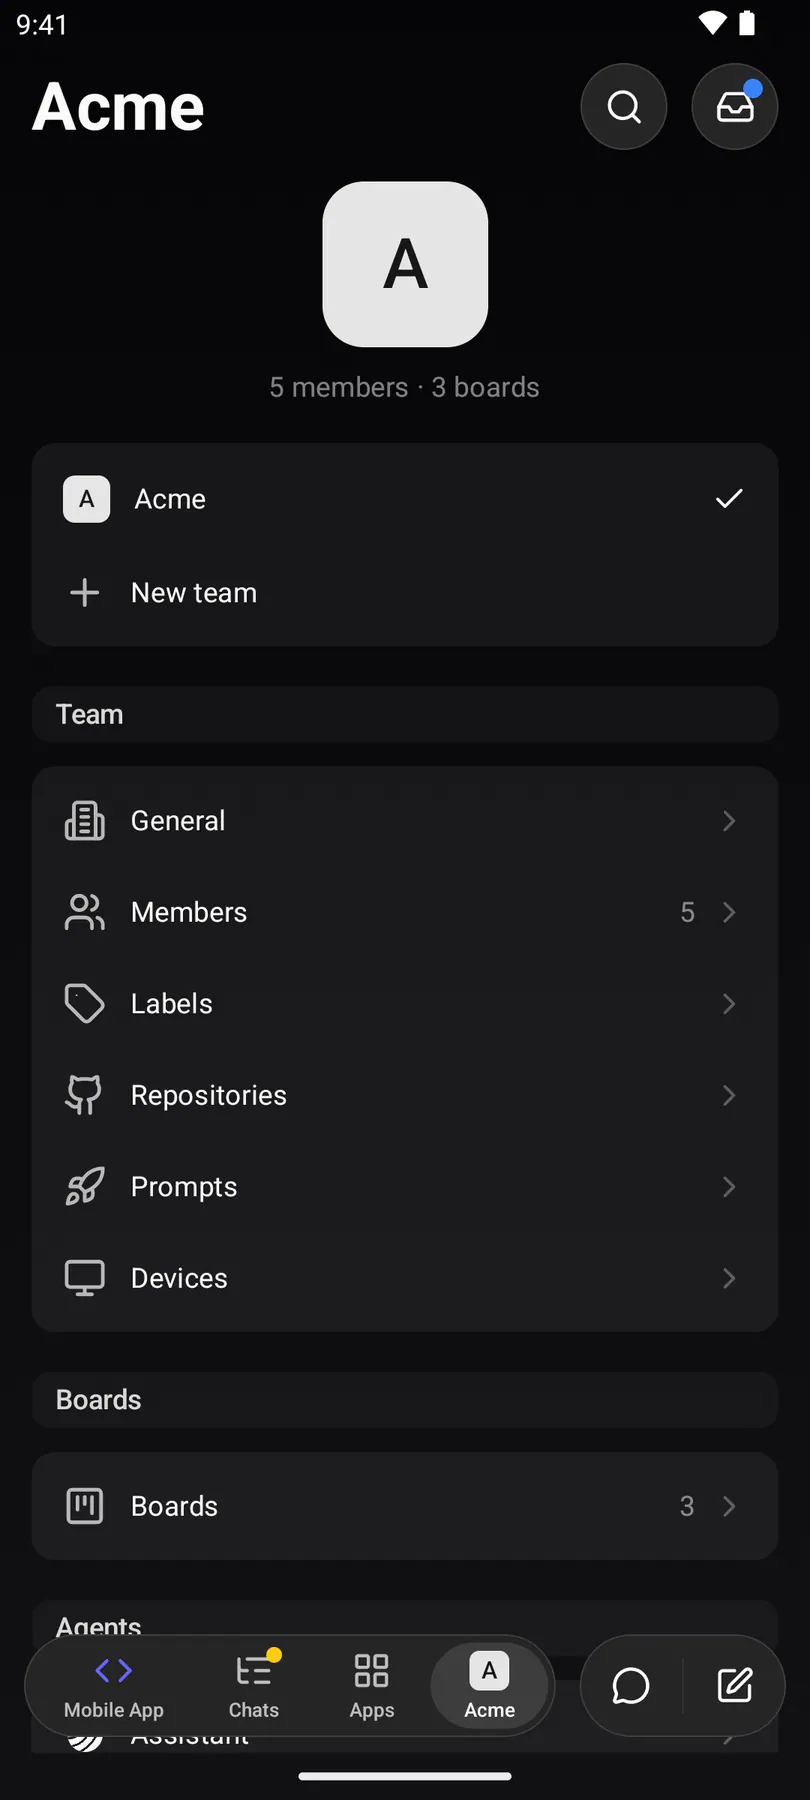
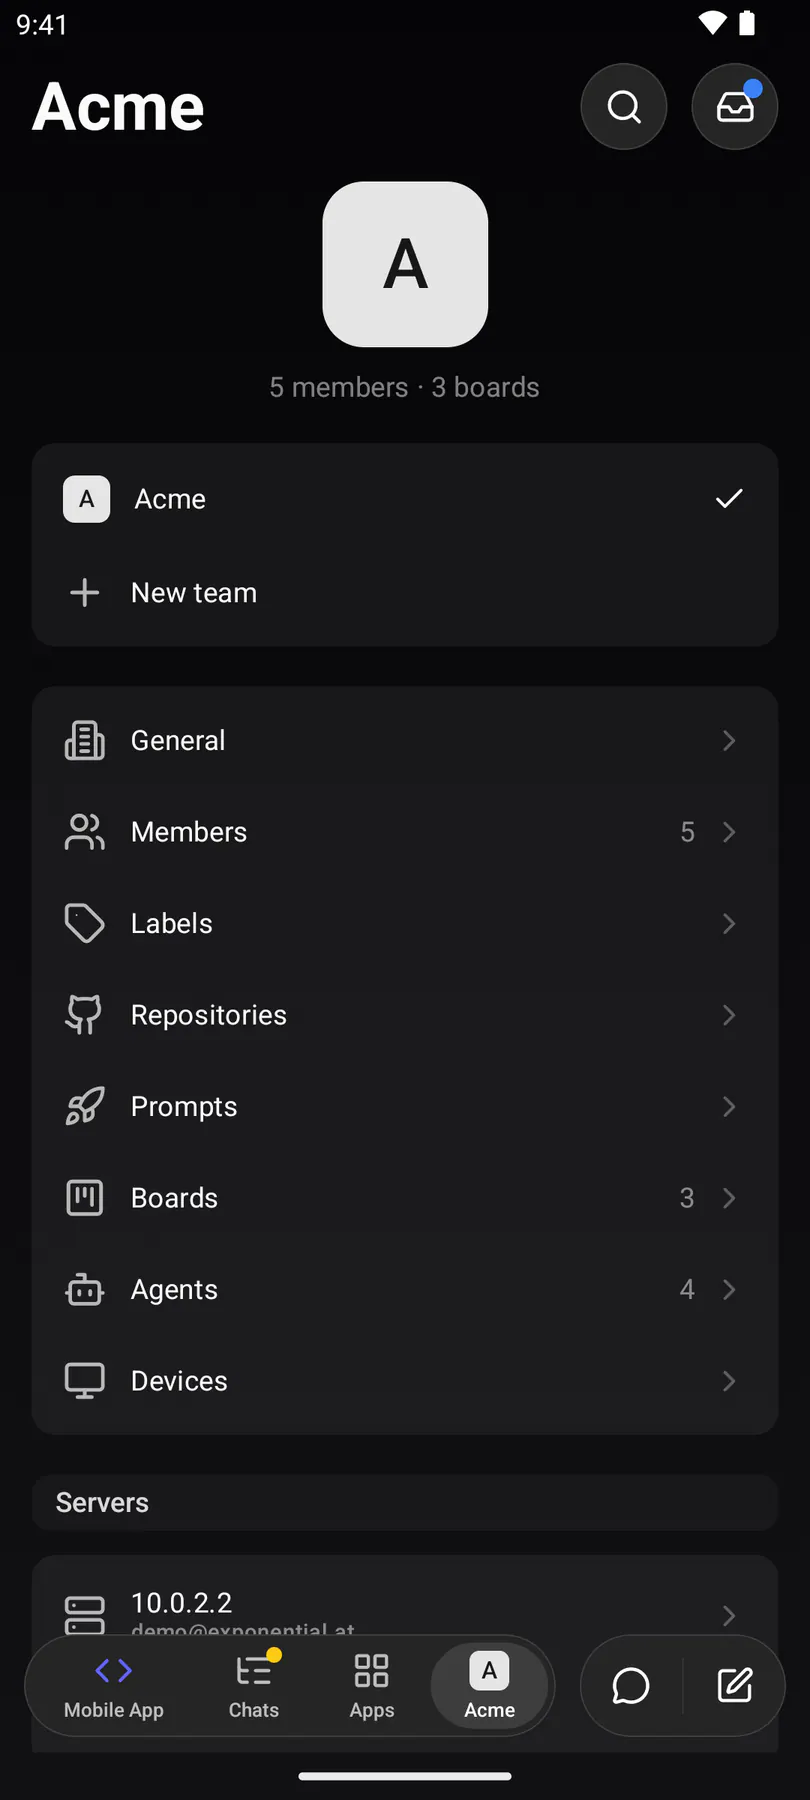
S-3 child 5: Android walk opens the Assistant through Agents; settings-root re-shot

diff --git a/apps/android/app/src/androidTest/java/com/exponential/app/StyleguideScreenshotsTest.kt b/apps/android/app/src/androidTest/java/com/exponential/app/StyleguideScreenshotsTest.kt
@@ -1020,18 +1020,24 @@ class StyleguideScreenshotsTest {
         flow.settle()
 
         // --- sg_settings-assistant (S-3, agent-settings.json `assistant`):
-        // the Team page's Assistant row (brand mark, first in the Agents
-        // group) → the viewer's OWN Assistant (seeded): identity, Runs on,
-        // Check in, the Voice block, the instructions (fetched: the gate).
-        // A detour: nothing is edited.
+        // the Team page's Agents row → the Assistant (the agents list's first
+        // row, the brand mark) = the viewer's OWN Assistant (seeded):
+        // identity, Runs on, Check in, the Voice block, the instructions
+        // (fetched: the gate). A detour: nothing is edited.
         if (ScreenshotFlow.anyRequested("sg_settings-assistant")) {
-            flow.waitFor(hasTestTag("settings-assistant-row"), SYNC_TIMEOUT)
-            tapClearOfBar(hasTestTag("settings-assistant-row"))
+            tapClearOfBar(teamSettingsRow("Agents"))
+            val assistantRow = hasTestTag(SessionTree.ListCopy.TEST_ID_AGENT_ROW) and
+                hasText(AgentSettings.Assistant.NAME)
+            flow.waitFor(assistantRow, SYNC_TIMEOUT)
+            tapClearOfBar(assistantRow)
             flow.waitFor(hasTestTag(AgentSettings.TEST_ID_PAGE), NAV_TIMEOUT)
             flow.waitFor(hasTestTag("assistant-check-in"), SYNC_TIMEOUT)
             flow.waitFor(hasTestTag("agent-settings-instructions") and isEnabled(), NETWORK_TIMEOUT)
             flow.settle(longer = true)
             flow.screenshot("sg_settings-assistant")
+            Espresso.closeSoftKeyboard()
+            Espresso.pressBack()
+            flow.waitFor(assistantRow, NAV_TIMEOUT)
             Espresso.closeSoftKeyboard()
             Espresso.pressBack()
             flow.waitFor(hasTestTag("team-tab"), NAV_TIMEOUT)
